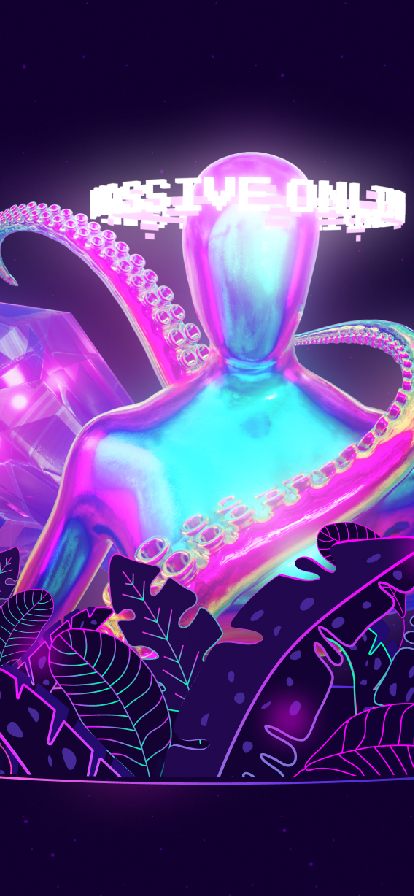
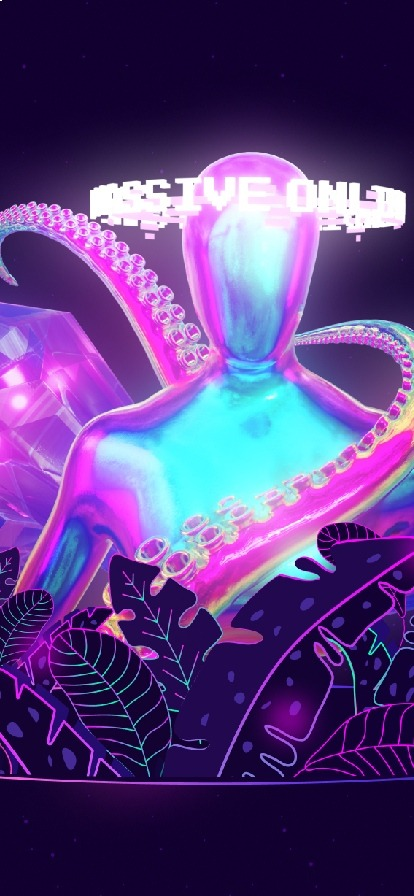
shaved a few MB off the image sizes for the landing page & added more sizes for responsive - also added rain to 'join us'

diff --git a/packages/web/components/Landing/JoinUs.tsx b/packages/web/components/Landing/JoinUs.tsx
@@ -16,6 +16,7 @@ import { useRef } from 'react';
 import { FaDiscord, FaGithub, FaTwitter } from 'react-icons/fa';
 
 import { LandingFooter } from './LandingFooter';
+import { Rain } from './OnboardingGame/Rain';
 
 export const JoinUs: React.FC = () => {
   const ref = useRef<HTMLDivElement>(null);
@@ -25,10 +26,10 @@ export const JoinUs: React.FC = () => {
 
   return (
     <FullPageContainer
-      bgImageUrl={BackgroundImage}
-      backgroundRepeat="no-repeat"
-      backgroundSize={{ base: '170%', lg: 'contain' }}
-      backgroundPosition="center"
+      // bgImageUrl={BackgroundImage}
+      // backgroundRepeat="no-repeat"
+      // backgroundSize={{ base: '170%', lg: 'contain' }}
+      // backgroundPosition="center"
       id={section}
       position="relative"
       justify={{ base: 'center' }}
@@ -53,7 +54,7 @@ export const JoinUs: React.FC = () => {
           maxWidth={{ base: '66%', md: 'md', '2xl': '2xl' }}
           pl={{ base: 0, md: 0 }}
           textAlign="center"
-          zIndex={1}
+          zIndex={100}
           transform={`translate3d(0, ${onScreen ? '0' : '50px'}, 0)`}
           opacity={onScreen ? 1 : 0}
           transition="transform 0.3s 0.5s ease-in-out, opacity 0.5s 0.7s ease-in"
@@ -167,6 +168,22 @@ export const JoinUs: React.FC = () => {
         </Box>
       </Container>
       <LandingFooter />
+      <Box
+        backgroundImage={BackgroundImage}
+        backgroundBlendMode="normal"
+        backgroundPosition={{ base: 'top', xl: 'center' }}
+        backgroundSize={{ base: 'contain', xl: 'cover' }}
+        backgroundRepeat="no-repeat"
+        minH="100vh"
+        minW="100vw"
+        position="absolute"
+        top={0}
+        left={0}
+        right={0}
+        bottom={0}
+        zIndex={1}
+      />
+      <Rain effectOpacity={0.2} />
     </FullPageContainer>
   );
 };

diff --git a/packages/web/components/Landing/Intro.tsx b/packages/web/components/Landing/Intro.tsx
@@ -12,8 +12,11 @@ import {
 // import { animated, config, useSpring } from '@react-spring/web';
 import BubbleLg from 'assets/landing/pretty/bubble-large.svg';
 import BubbleSm from 'assets/landing/pretty/bubble-small.svg';
-import BackgroundImageDesktop from 'assets/landing/sections/section-1.jpg';
+import BackgroundImage5xl from 'assets/landing/sections/section-1.jpg';
 import BackgroundImageMobile from 'assets/landing/sections/section-1.sm.jpg';
+import BackgroundImage2xl from 'assets/landing/sections/section-1-2xl.jpg';
+import BackgroundImage4xl from 'assets/landing/sections/section-1-4xl.jpg';
+import BackgroundImageLg from 'assets/landing/sections/section-1-lg.jpg';
 import { FullPageContainer } from 'components/Container';
 import { useEffect, useState } from 'react';
 
@@ -26,7 +29,10 @@ export const Intro: React.FC<{ currentSection: number }> = ({
   const [showQuote, setShowQuote] = useState(false);
   const responsiveBg = useBreakpointValue({
     base: BackgroundImageMobile,
-    md: BackgroundImageDesktop,
+    xl: BackgroundImageLg,
+    '2xl': BackgroundImage2xl,
+    '3xl': BackgroundImage4xl,
+    '5xl': BackgroundImage5xl,
   });
 
   const toggleQuote = () => {

diff --git a/packages/web/components/Landing/Game.tsx b/packages/web/components/Landing/Game.tsx
@@ -1,6 +1,9 @@
 import { Box, Container, Text, useBreakpointValue } from '@metafam/ds';
-import BackgroundImageDesktop from 'assets/landing/sections/section-2.jpg';
+import BackgroundImage5xl from 'assets/landing/sections/section-2.jpg';
 import BackgroundImageMobile from 'assets/landing/sections/section-2.sm.jpg';
+import BackgroundImage2xl from 'assets/landing/sections/section-2-2xl.jpg';
+import BackgroundImage4xl from 'assets/landing/sections/section-2-4xl.jpg';
+import BackgroundImageLg from 'assets/landing/sections/section-2-lg.jpg';
 import { FullPageContainer } from 'components/Container';
 import { MetaLink } from 'components/Link';
 import { useOnScreen } from 'lib/hooks/useOnScreen';
@@ -14,7 +17,10 @@ export const Game: React.FC = () => {
   const section = 'wtf-is-a-metagame';
   const responsiveBg = useBreakpointValue({
     base: BackgroundImageMobile,
-    md: BackgroundImageDesktop,
+    xl: BackgroundImageLg,
+    '2xl': BackgroundImage2xl,
+    '3xl': BackgroundImage4xl,
+    '5xl': BackgroundImage5xl,
   });
 
   return (

diff --git a/packages/web/components/Landing/OnboardingGame/Game.tsx b/packages/web/components/Landing/OnboardingGame/Game.tsx
@@ -429,7 +429,7 @@ export const OnboardingGame: React.FC = (): JSX.Element => {
           }
         }
 
-        const randomiseSpeed = Math.random() * (40 - 2) + 2;
+        const randomiseSpeed = Math.random() * (10 - 2) + 2;
         setTimeout(loop, randomiseSpeed);
       };
       loop();
@@ -498,7 +498,7 @@ export const OnboardingGame: React.FC = (): JSX.Element => {
             overflowY="auto"
             width="100%"
             pl={{ base: 6, md: 10, xl: 0 }}
-            pr={{ base: 2, md: 10, xl: 0 }}
+            pr={{ base: 3, md: 10, xl: 0 }}
             pb={{ base: 5, xl: 10 }}
             zIndex={onScreen ? 0 : -20}
             transform={`translate3d(0, ${'0'}, 0)`}

diff --git a/packages/web/components/Landing/WhatDo.tsx b/packages/web/components/Landing/WhatDo.tsx
@@ -6,8 +6,8 @@ import {
   UnorderedList,
   useBreakpointValue,
 } from '@metafam/ds';
+import BackgroundImageDesktop from 'assets/landing/sections/section-5.png';
 import BackgroundImageMobile from 'assets/landing/sections/section-5.sm.png';
-import BackgroundImageDesktop from 'assets/landing/whatdo/computer.png';
 import { FullPageContainer } from 'components/Container';
 import { useOnScreen } from 'lib/hooks/useOnScreen';
 import { useRef } from 'react';
